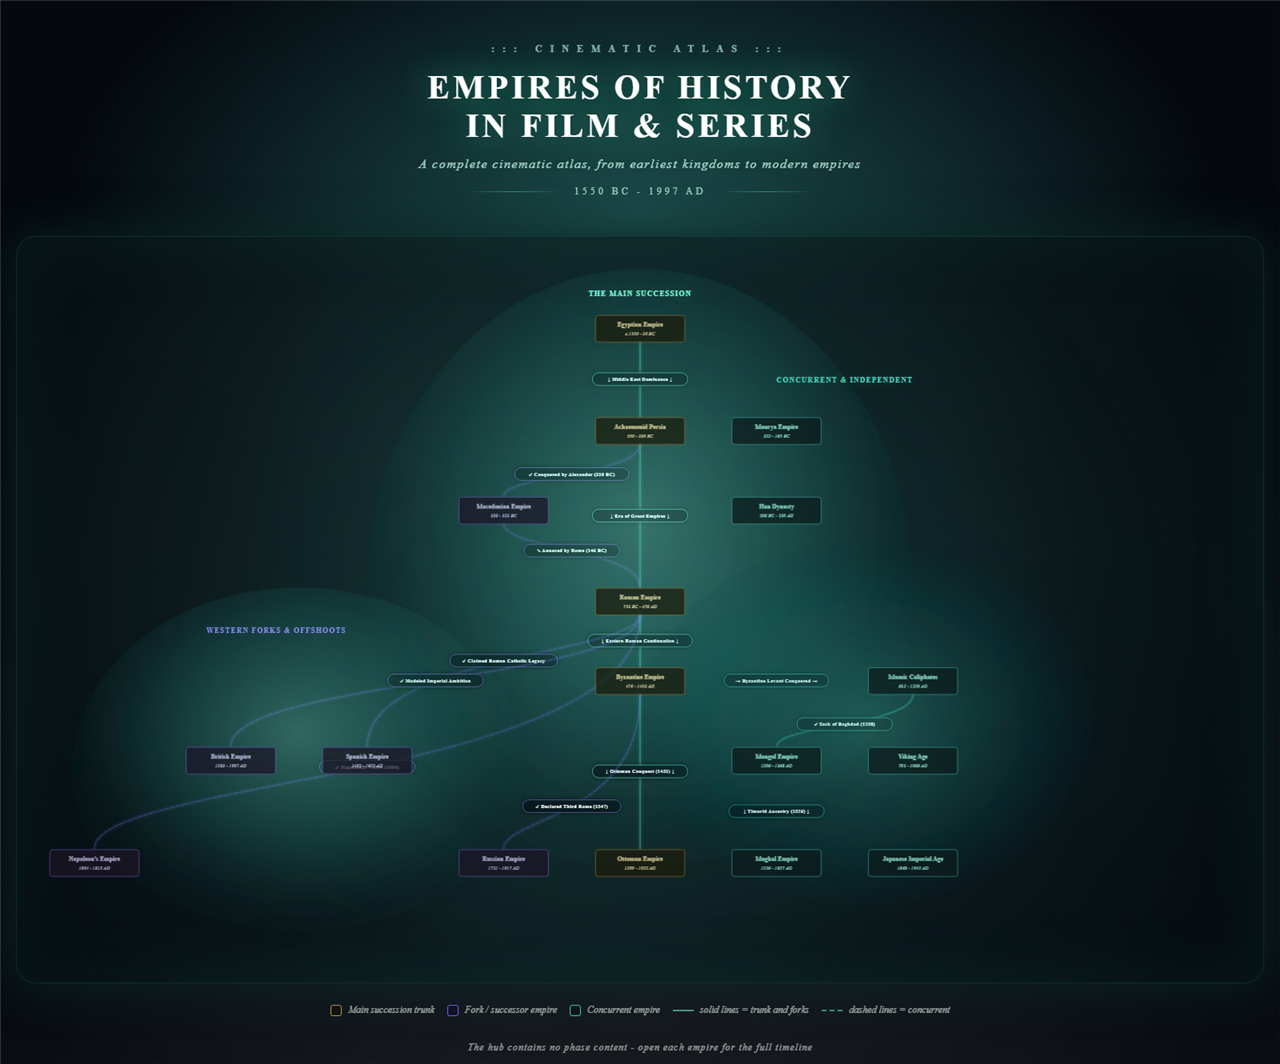
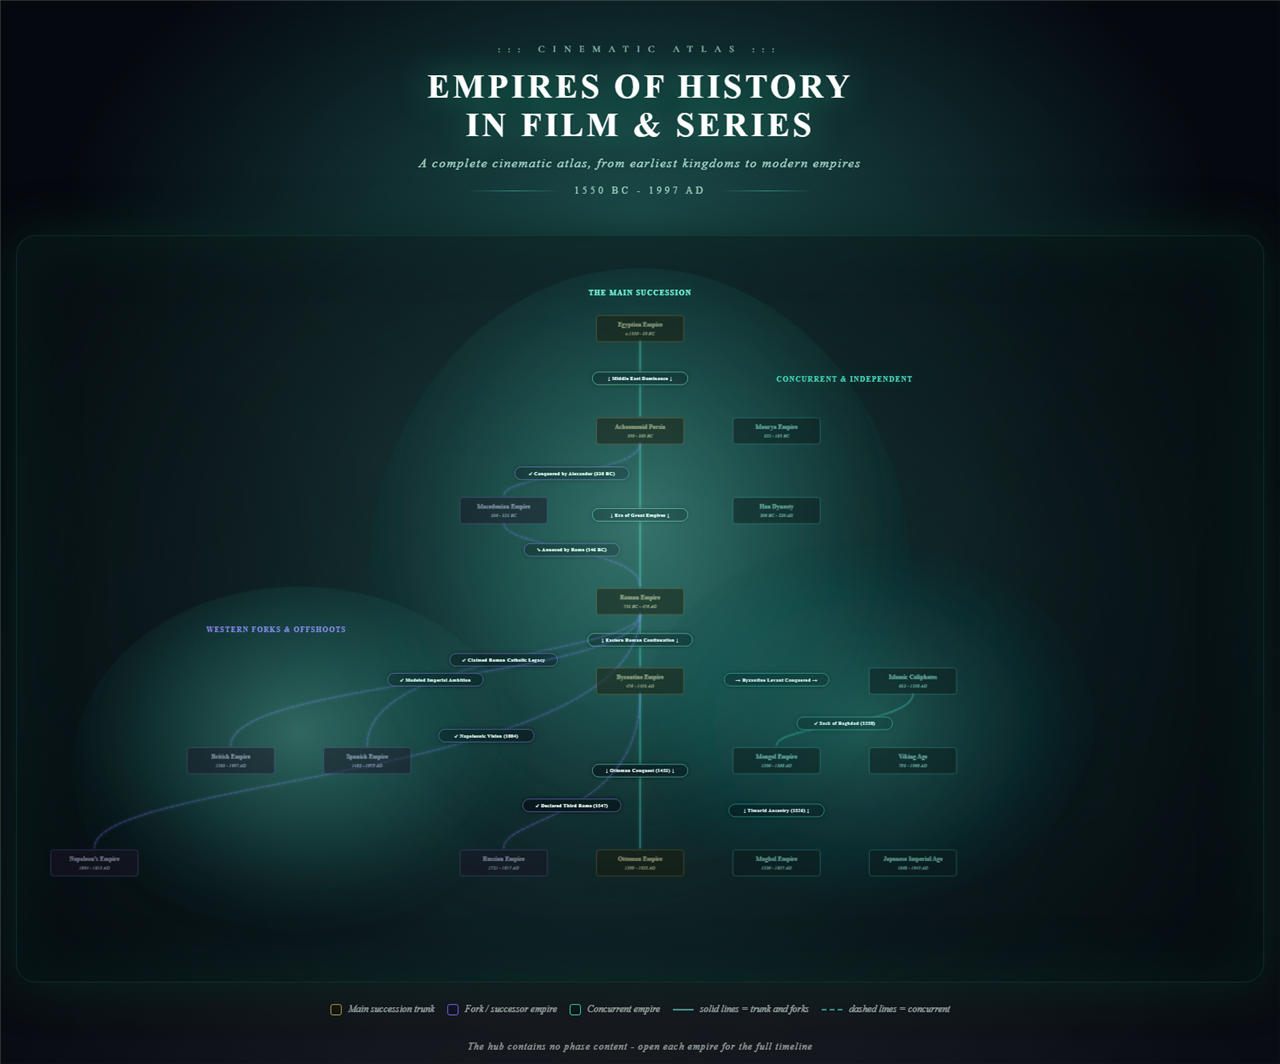
docs: add hub tree screenshot; fix Napoleonic Vision label overlapping Spanish node

diff --git a/index.html b/index.html
@@ -488,7 +488,7 @@
         <rect x="-210.0" y="-28" width="420" height="56" rx="28" class="conn-bg" fill="#08151a" stroke="#9a85ff" stroke-width="2" />
         <text class="conn-label" x="0" y="8">↙ Modeled Imperial Ambition</text>
     </g><path class="branch-fork" d="M 2200 1520 C 2200 2241.0, -200 2241.0, -200 2550" />
-    <g class="label-g" transform="translate(1000.0,2189.5)">
+    <g class="label-g" transform="translate(1524.0,2056.0)">
         <rect x="-210.0" y="-28" width="420" height="56" rx="28" class="conn-bg" fill="#08151a" stroke="#9a85ff" stroke-width="2" />
         <text class="conn-label" x="0" y="8">↙ Napoleonic Vision (1804)</text>
     </g><path class="branch-fork" d="M 2200 1870 C 2200 2414.0, 1600 2414.0, 1600 2550" />
